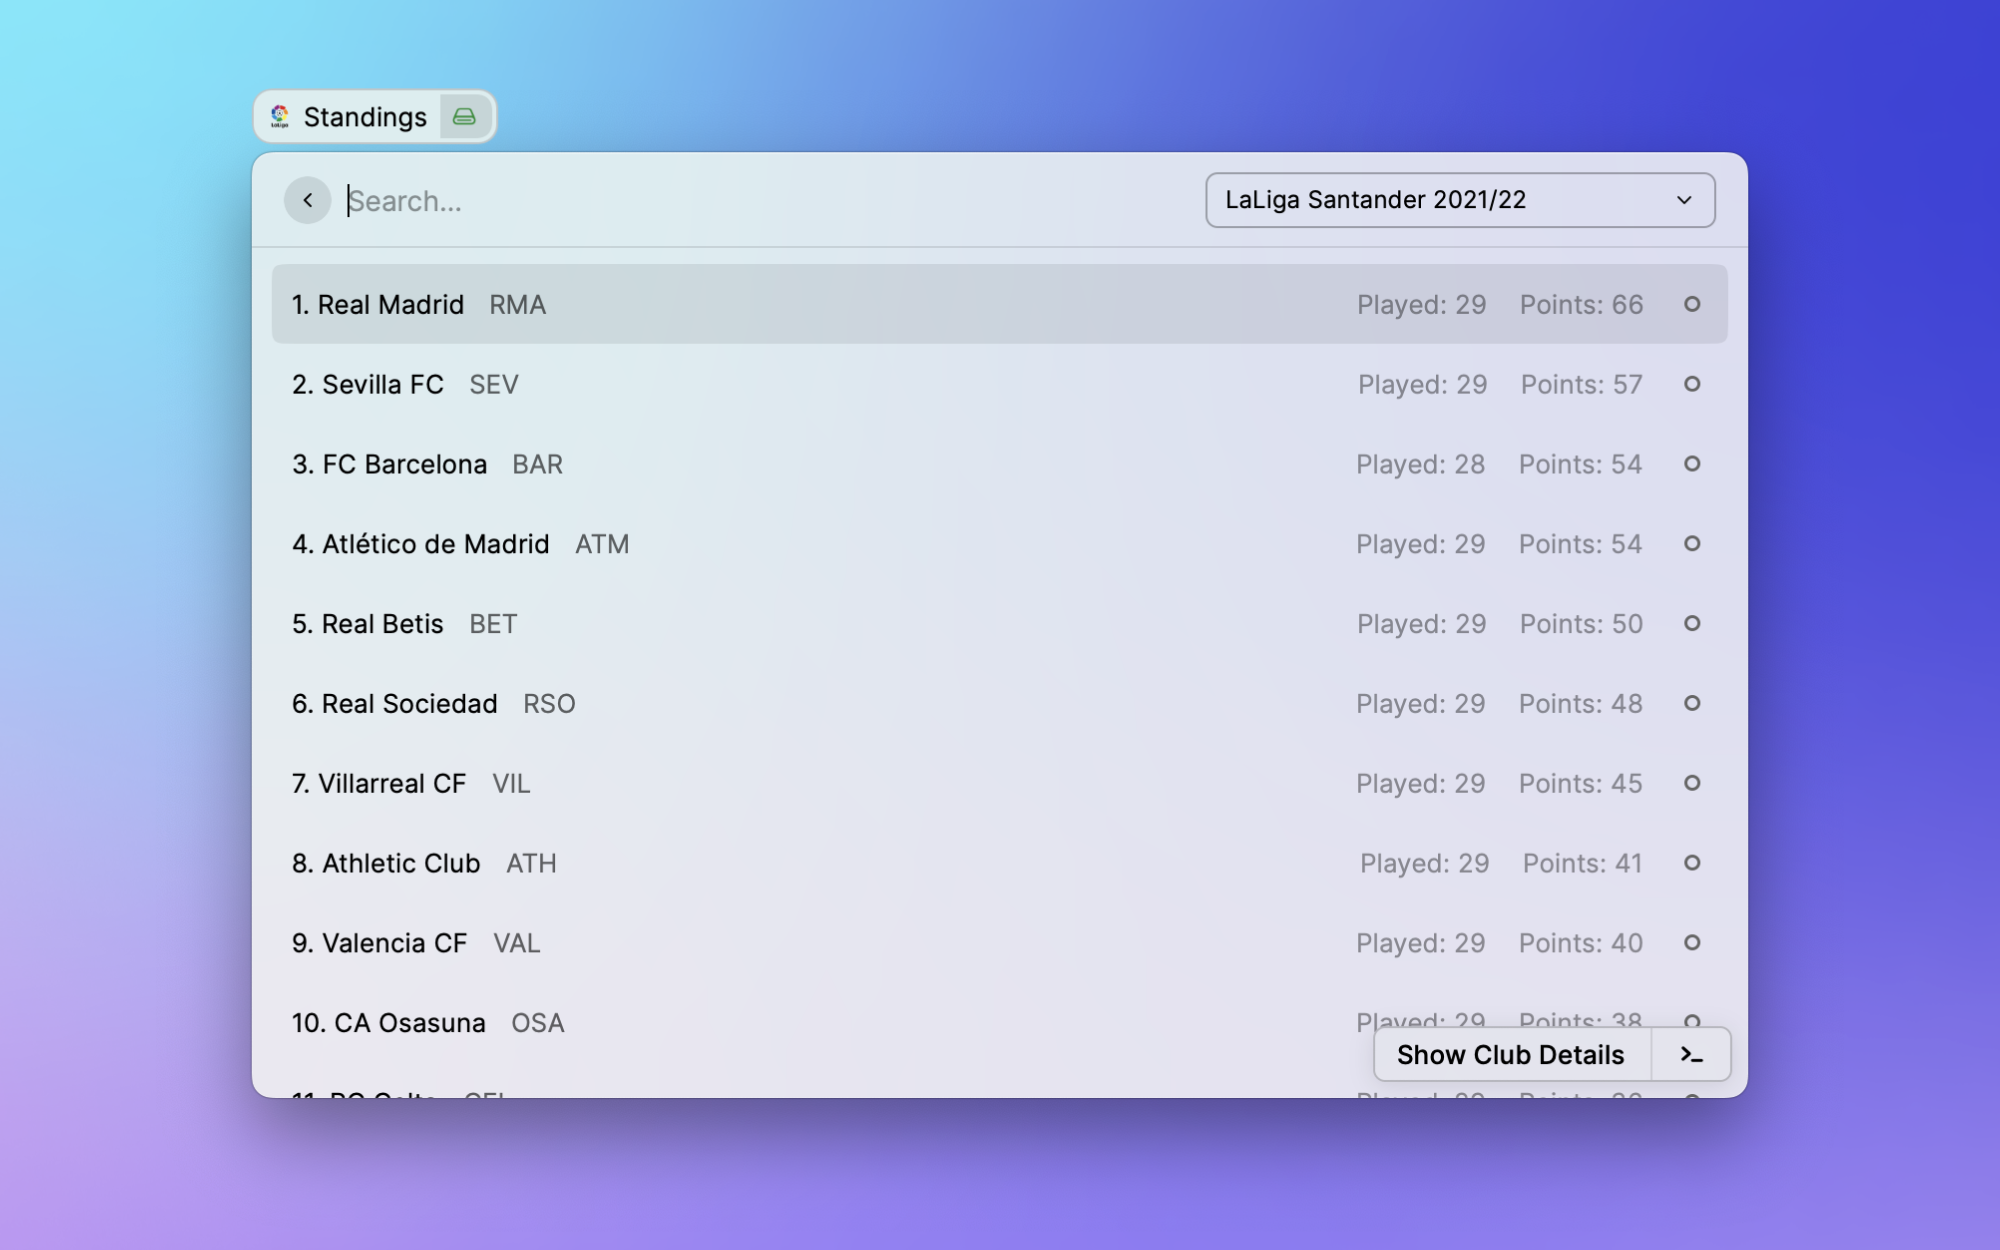
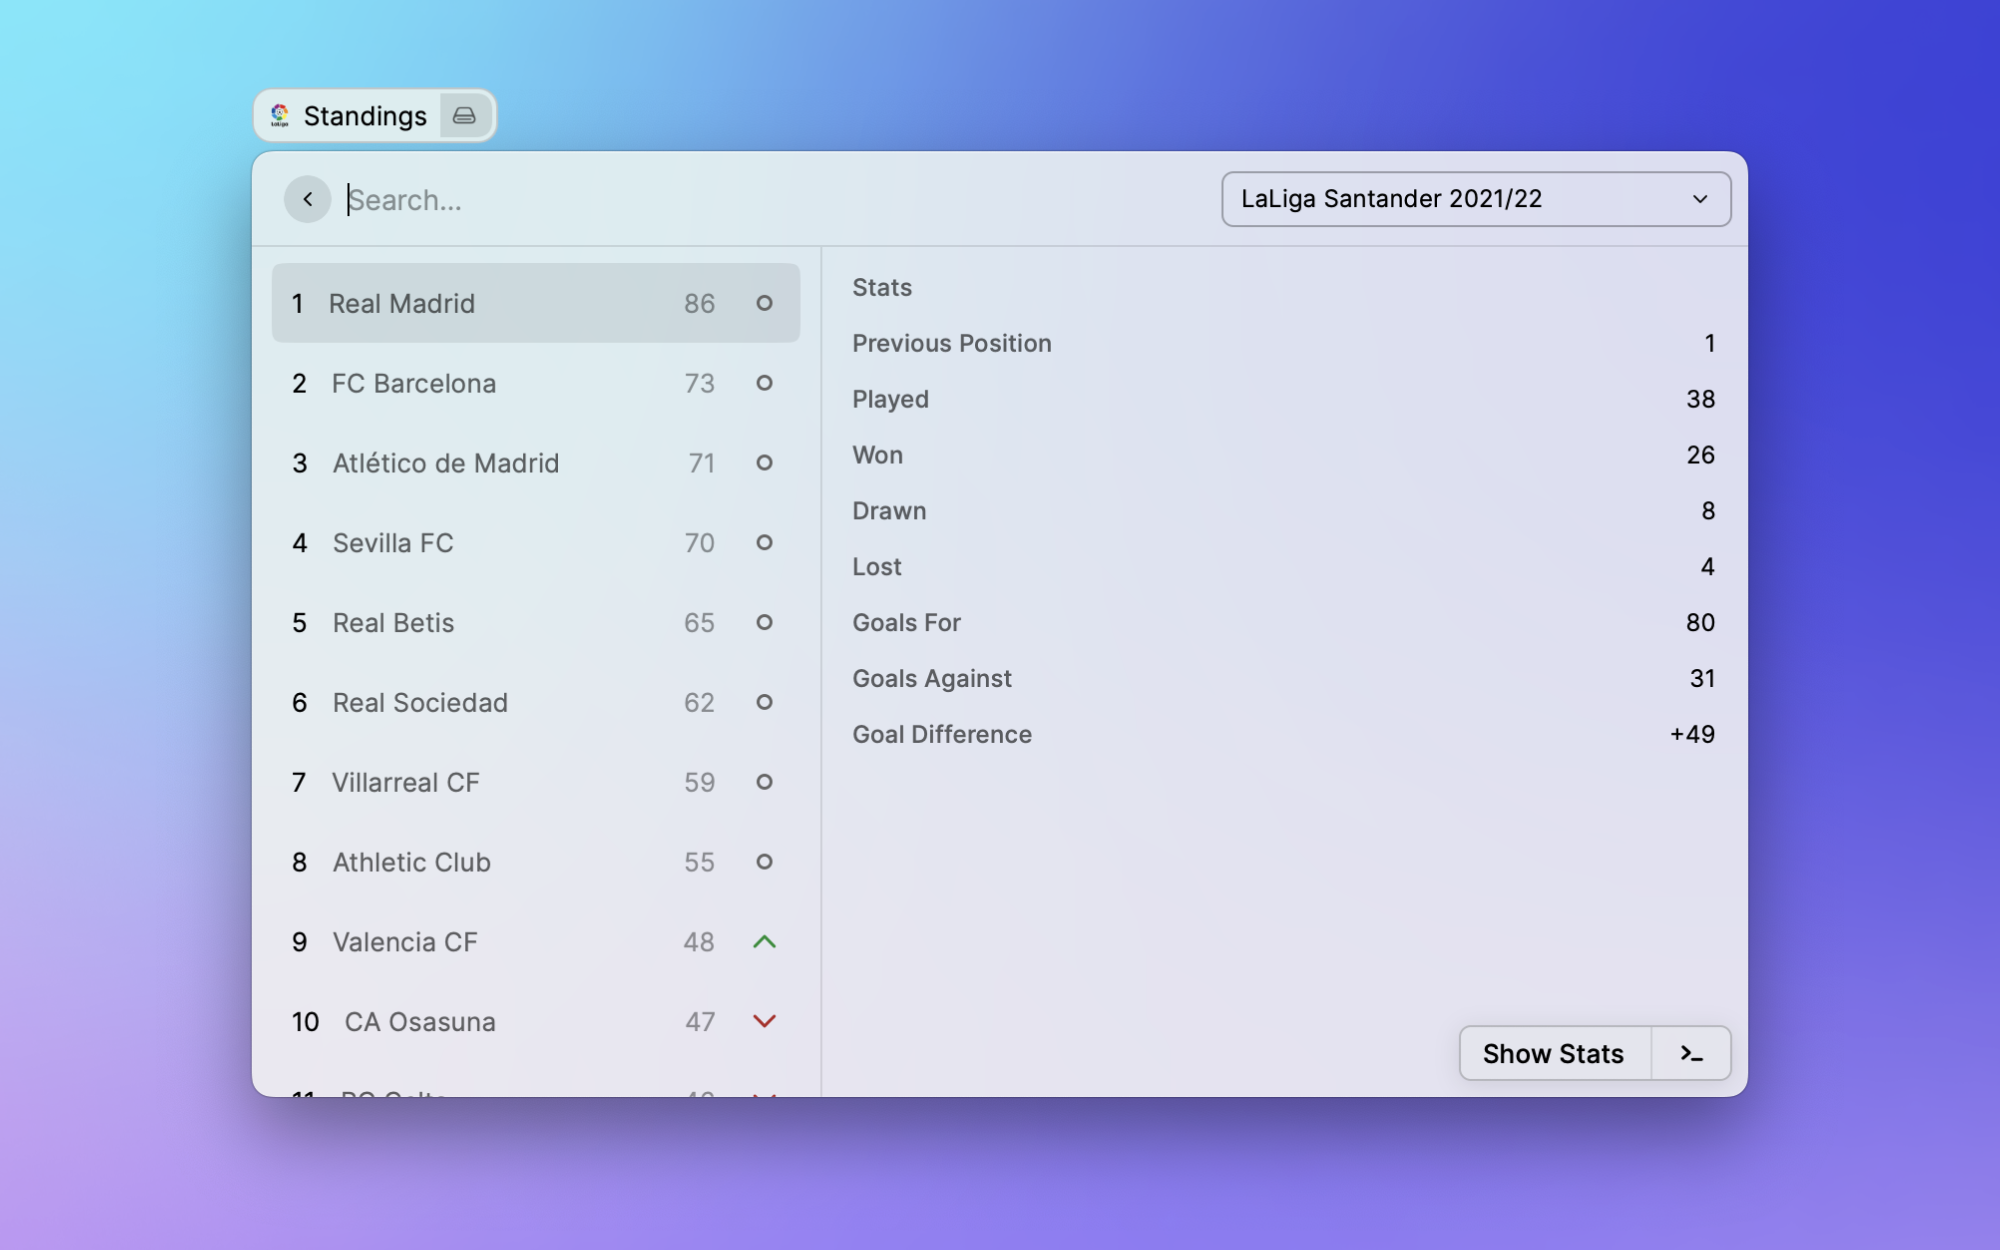
feat: using new grid layout for some commands, list item detail metadata (#1994)

diff --git a/extensions/laliga/src/standing.tsx b/extensions/laliga/src/standing.tsx
@@ -1,6 +1,5 @@
 import { List, Icon, Image, Color, ActionPanel, Action } from "@raycast/api";
 import { useEffect, useState } from "react";
-import json2md from "json2md";
 import CompetitionDropdown, {
   competitions,
 } from "./components/competition_dropdown";
@@ -18,25 +17,6 @@ export default function GetTables() {
       setStandings(data);
     });
   }, [competition]);
-
-  const club = (standing: Standing): json2md.DataObject => {
-    return [
-      { h1: standing.team.name },
-      { h2: "Stats" },
-      {
-        p: [
-          `Previous Position: ${standing.previous_position}`,
-          `Played: ${standing.played}`,
-          `Won: ${standing.won}`,
-          `Drawn: ${standing.drawn}`,
-          `Lost: ${standing.lost}`,
-          `Goals For: ${standing.goals_for}`,
-          `Goals Against: ${standing.goals_against}`,
-          `Goal Difference: ${standing.goal_difference}`,
-        ],
-      },
-    ];
-  };
 
   return (
     <List
@@ -65,25 +45,54 @@ export default function GetTables() {
           };
         }
 
-        const props: Partial<List.Item.Props> = showStats
-          ? {
-              detail: <List.Item.Detail markdown={json2md(club(team))} />,
-              accessories: [{ text: team.points.toString() }, { icon }],
-            }
-          : {
-              subtitle: team.team.shortname,
-              accessories: [
-                { text: `Played: ${team.played}` },
-                { text: `Points: ${team.points}` },
-                { icon },
-              ],
-            };
-
         return (
           <List.Item
             key={team.team.id}
-            title={`${team.position}. ${team.team.nickname}`}
-            {...props}
+            title={team.position.toString()}
+            subtitle={team.team.nickname}
+            keywords={[team.team.nickname, team.team.shortname]}
+            accessories={[{ text: team.points.toString() }, { icon }]}
+            detail={
+              <List.Item.Detail
+                metadata={
+                  <List.Item.Detail.Metadata>
+                    <List.Item.Detail.Metadata.Label title="Stats" />
+                    <List.Item.Detail.Metadata.Label
+                      title="Previous Position"
+                      text={team.previous_position.toString()}
+                    />
+                    <List.Item.Detail.Metadata.Label
+                      title="Played"
+                      text={team.played.toString()}
+                    />
+                    <List.Item.Detail.Metadata.Label
+                      title="Won"
+                      text={team.won.toString()}
+                    />
+                    <List.Item.Detail.Metadata.Label
+                      title="Drawn"
+                      text={team.drawn.toString()}
+                    />
+                    <List.Item.Detail.Metadata.Label
+                      title="Lost"
+                      text={team.lost.toString()}
+                    />
+                    <List.Item.Detail.Metadata.Label
+                      title="Goals For"
+                      text={team.goals_for.toString()}
+                    />
+                    <List.Item.Detail.Metadata.Label
+                      title="Goals Against"
+                      text={team.goals_against.toString()}
+                    />
+                    <List.Item.Detail.Metadata.Label
+                      title="Goal Difference"
+                      text={team.goal_difference.toString()}
+                    />
+                  </List.Item.Detail.Metadata>
+                }
+              />
+            }
             actions={
               <ActionPanel>
                 <Action

diff --git a/extensions/laliga/src/components/squad.tsx b/extensions/laliga/src/components/squad.tsx
@@ -1,30 +1,8 @@
-import { Action, ActionPanel, Icon, List } from "@raycast/api";
+import { Action, ActionPanel, Grid, Icon } from "@raycast/api";
 import { useEffect, useState } from "react";
 import { getSquad } from "../api";
 import { Squad, Team } from "../types";
 import Player from "./player";
-
-const getFlagEmoji = (isoCode?: string) => {
-  if (!isoCode) return "🏴";
-
-  if (isoCode === "GB-ENG") {
-    return "🏴";
-  }
-  if (isoCode === "GB-WLS") {
-    return "🏴";
-  }
-  if (isoCode === "GB-SCT") {
-    return "🏴";
-  }
-  if (isoCode === "GB-NIR") {
-    // The only official flag in Northern Ireland is the Union Flag of the United Kingdom.
-    return "🇬🇧";
-  }
-
-  return isoCode
-    .toUpperCase()
-    .replace(/./g, (char) => String.fromCodePoint(127397 + char.charCodeAt(0)));
-};
 
 export default function ClubSquad(props: Team) {
   const [members, setMembers] = useState<Squad[]>([]);
@@ -40,26 +18,18 @@ export default function ClubSquad(props: Team) {
   }, [props.slug]);
 
   return (
-    <List
+    <Grid
       throttle
       navigationTitle={`Squad | ${props.nickname} | Club`}
       isLoading={loading}
     >
       {members.map((member) => {
         return (
-          <List.Item
+          <Grid.Item
             key={member.id}
             title={member.person.name}
             subtitle={member.position.name}
-            icon={member.photos["001"]["64x70"]}
-            accessories={
-              member.person.country
-                ? [
-                    { text: member.person.country.id },
-                    { icon: getFlagEmoji(member.person.country.id) },
-                  ]
-                : undefined
-            }
+            content={member.photos["001"]["512x556"] || ""}
             actions={
               <ActionPanel>
                 <Action.Push
@@ -72,6 +42,6 @@ export default function ClubSquad(props: Team) {
           />
         );
       })}
-    </List>
+    </Grid>
   );
 }

diff --git a/extensions/laliga/src/club.tsx b/extensions/laliga/src/club.tsx
@@ -4,7 +4,7 @@ import { getTeams } from "./api";
 import CompetitionDropdown, {
   competitions,
 } from "./components/competition_dropdown";
-import { Action, ActionPanel, Icon, List } from "@raycast/api";
+import { Action, ActionPanel, Grid, Icon } from "@raycast/api";
 import ClubDetails from "./components/club";
 
 export default function Club() {
@@ -19,21 +19,24 @@ export default function Club() {
   }, [competition]);
 
   return (
-    <List
+    <Grid
       throttle
       isLoading={!clubs}
       searchBarAccessory={
-        <CompetitionDropdown selected={competition} onSelect={setCompetition} />
+        <CompetitionDropdown
+          type="grid"
+          selected={competition}
+          onSelect={setCompetition}
+        />
       }
     >
       {clubs?.map((club) => {
         return (
-          <List.Item
+          <Grid.Item
             key={club.id}
             title={club.nickname}
-            subtitle={club.shortname}
-            icon={club.shield.url}
-            accessories={[{ text: club.venue.name }, { icon: "stadium.svg" }]}
+            subtitle={club.venue.name}
+            content={club.shield.url}
             actions={
               <ActionPanel>
                 <Action.Push
@@ -46,6 +49,6 @@ export default function Club() {
           />
         );
       })}
-    </List>
+    </Grid>
   );
 }

diff --git a/extensions/laliga/src/components/player.tsx b/extensions/laliga/src/components/player.tsx
@@ -3,6 +3,28 @@ import { format } from "date-fns";
 import json2md from "json2md";
 import { Squad } from "../types";
 
+const getFlagEmoji = (isoCode?: string) => {
+  if (!isoCode) return "🏴";
+
+  if (isoCode === "GB-ENG") {
+    return "🏴";
+  }
+  if (isoCode === "GB-WLS") {
+    return "🏴";
+  }
+  if (isoCode === "GB-SCT") {
+    return "🏴";
+  }
+  if (isoCode === "GB-NIR") {
+    // The only official flag in Northern Ireland is the Union Flag of the United Kingdom.
+    return "🇬🇧";
+  }
+
+  return isoCode
+    .toUpperCase()
+    .replace(/./g, (char) => String.fromCodePoint(127397 + char.charCodeAt(0)));
+};
+
 export default function Player(squad: Squad) {
   return (
     <Detail
@@ -19,6 +41,7 @@ export default function Player(squad: Squad) {
         <Detail.Metadata>
           <Detail.Metadata.Label
             title="Nationality"
+            icon={getFlagEmoji(squad.person.country?.id)}
             text={squad.person.country?.id}
           />
           <Detail.Metadata.Label

diff --git a/extensions/laliga/src/components/competition_dropdown.tsx b/extensions/laliga/src/components/competition_dropdown.tsx
@@ -1,4 +1,4 @@
-import { List } from "@raycast/api";
+import { Grid, List } from "@raycast/api";
 
 export const competitions = [
   {
@@ -16,26 +16,30 @@ export const competitions = [
 ];
 
 export default function CompetitionDropdown(props: {
+  type?: string;
   selected: string;
   onSelect: React.Dispatch<React.SetStateAction<string>>;
 }) {
+  const DropdownComponent =
+    props.type === "grid" ? Grid.Dropdown : List.Dropdown;
+
   return (
-    <List.Dropdown
+    <DropdownComponent
       tooltip="Filter by Competition"
       value={props.selected}
       onChange={props.onSelect}
     >
-      <List.Dropdown.Section>
+      <DropdownComponent.Section>
         {competitions.map((competition) => {
           return (
-            <List.Dropdown.Item
+            <DropdownComponent.Item
               key={competition.value}
               value={competition.value}
               title={competition.title}
             />
           );
         })}
-      </List.Dropdown.Section>
-    </List.Dropdown>
+      </DropdownComponent.Section>
+    </DropdownComponent>
   );
 }

diff --git a/extensions/laliga/CHANGELOG.md b/extensions/laliga/CHANGELOG.md
@@ -1,5 +1,10 @@
 # LaLiga Changelog
 
+## [Improvements] - 2022-06-14
+
+- Using new Grid layout for some commands
+- Using new list item detail metadata
+
 ## [Initial Version] - 2022-03-24
 
 - Added Standings
